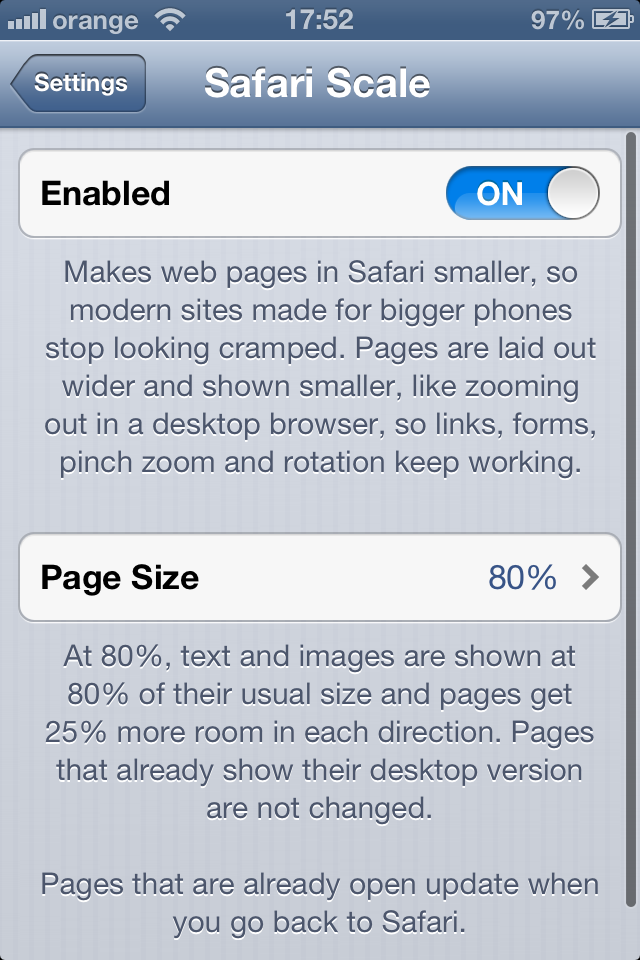
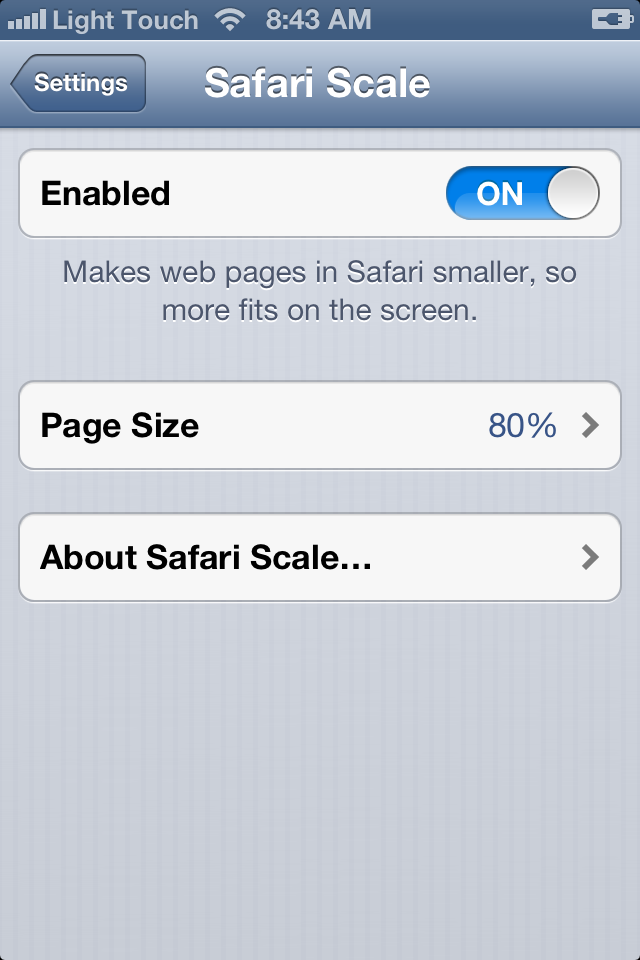
README: what was tested where, and what still needs the phone

diff --git a/README.md b/README.md
@@ -62,8 +62,11 @@ Open **Settings > Safari Scale**:
 
 - **Enabled**: turns the tweak on or off.
 - **Page Size**: 30% to 100% in steps of 10%. 80% is the default.
+- **About Safari Scale…**: how it works, on a page of its own.
 
-<img src="screenshots/settings.png" alt="Safari Scale settings page: Enabled switch and Page Size 80%" width="320">
+The page is in English and Romanian.
+
+<img src="screenshots/settings.png" alt="Safari Scale settings page: Enabled switch, Page Size 80% and About Safari Scale" width="320">
 
 ## Build from source
 
